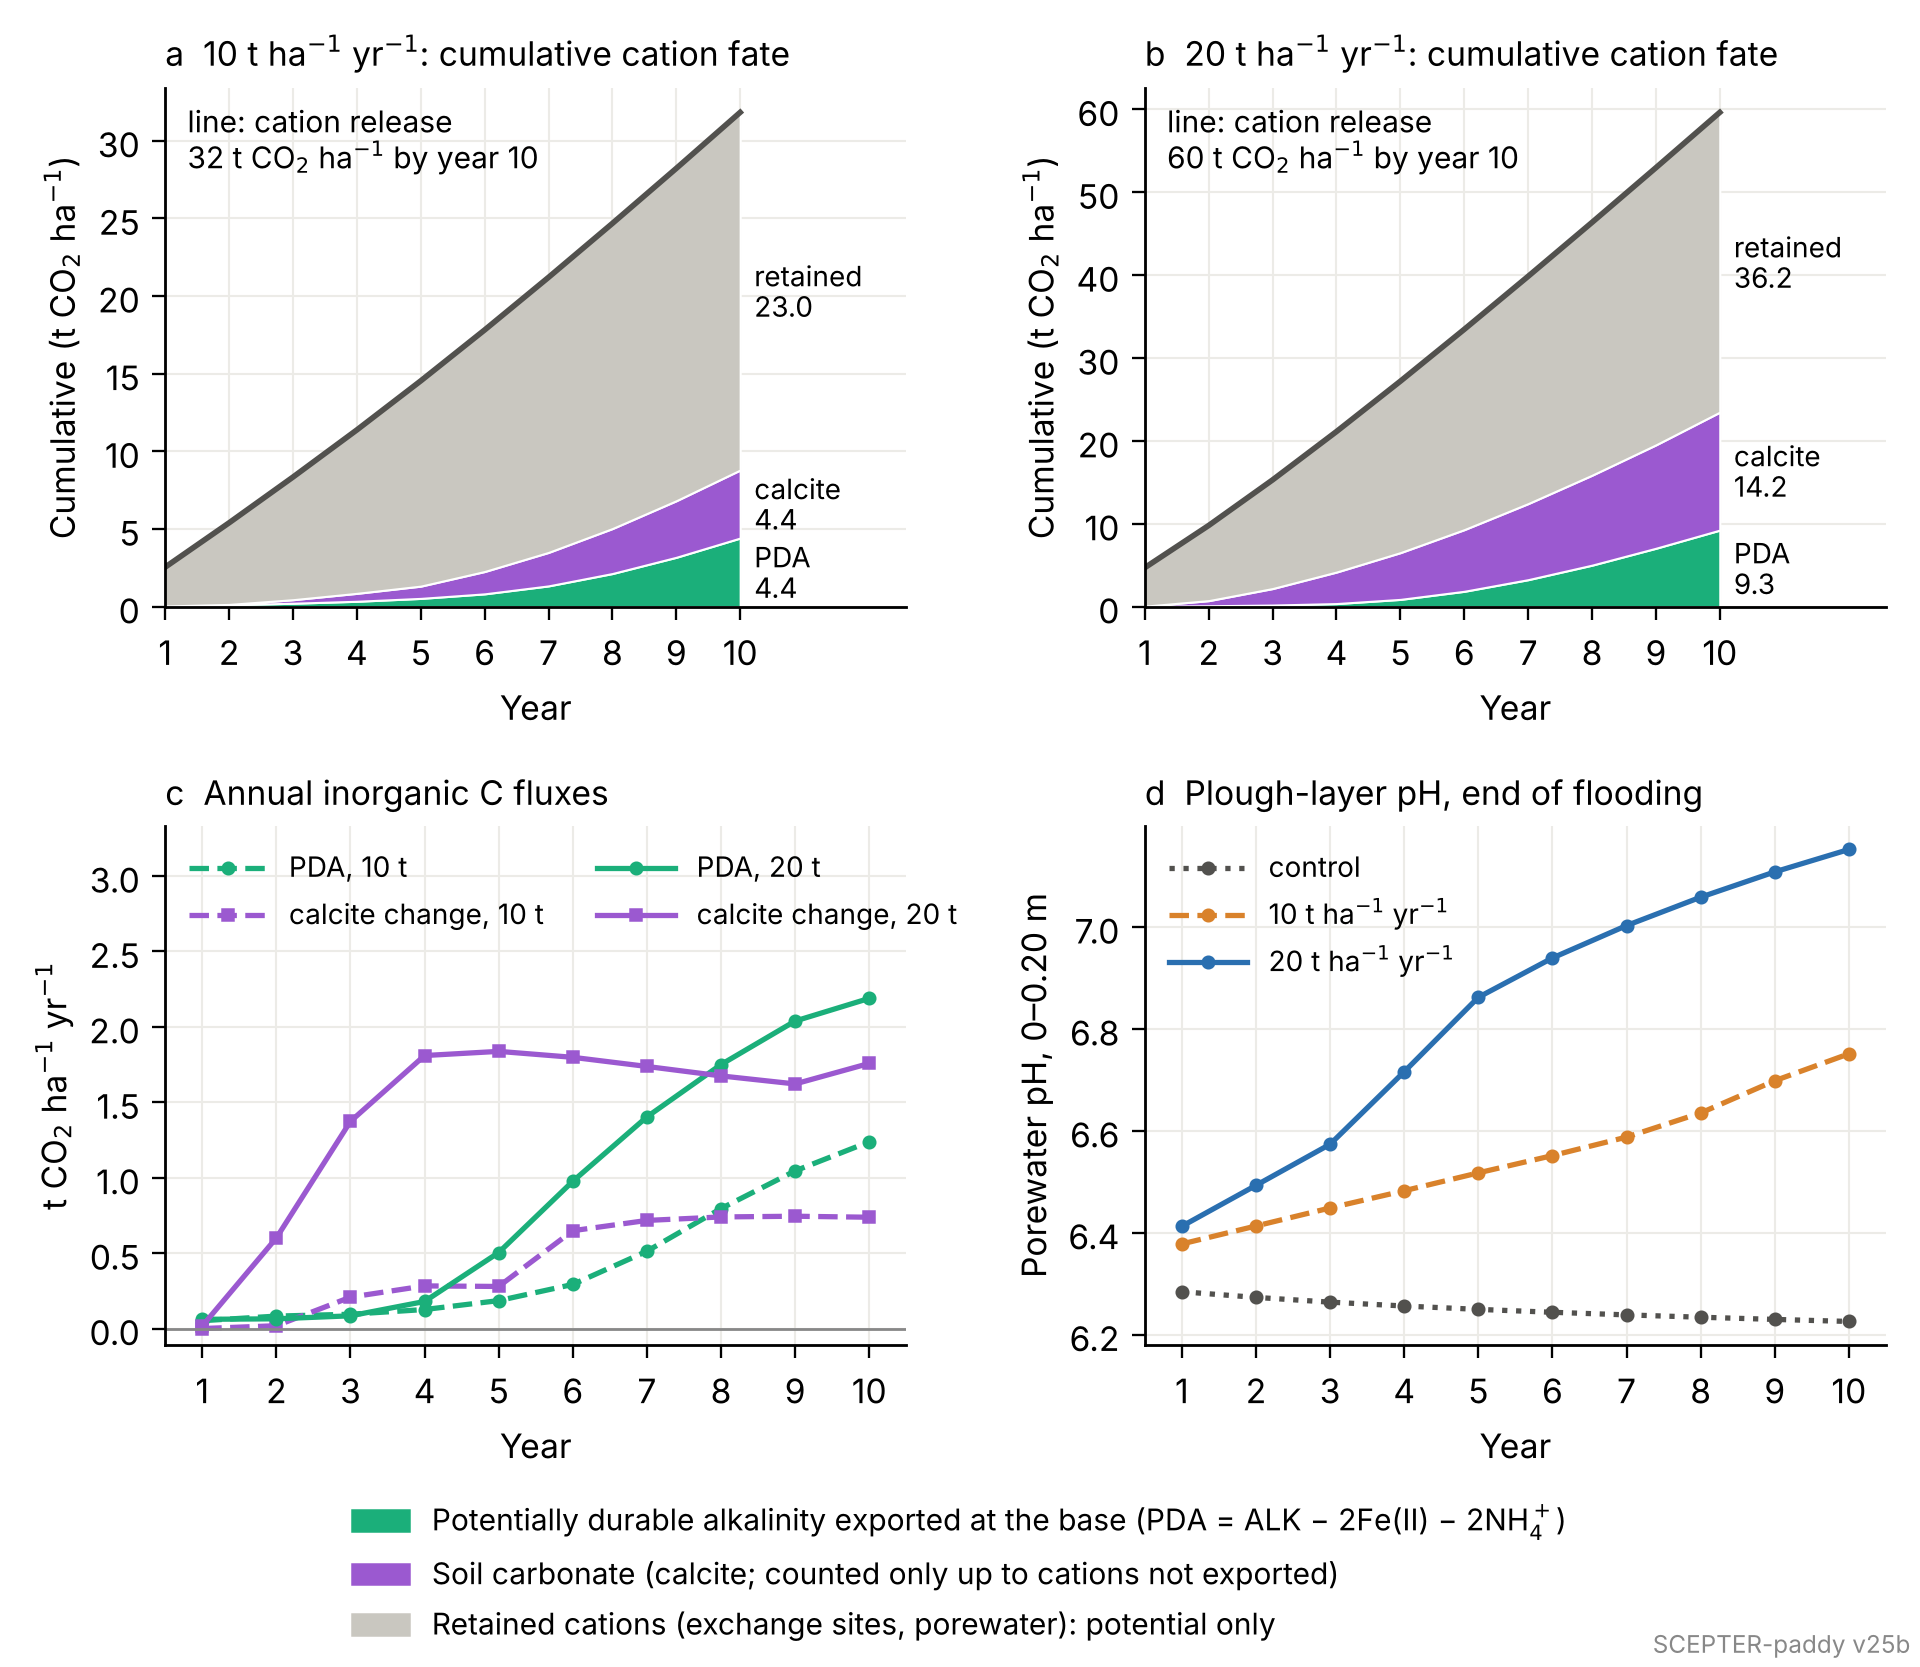
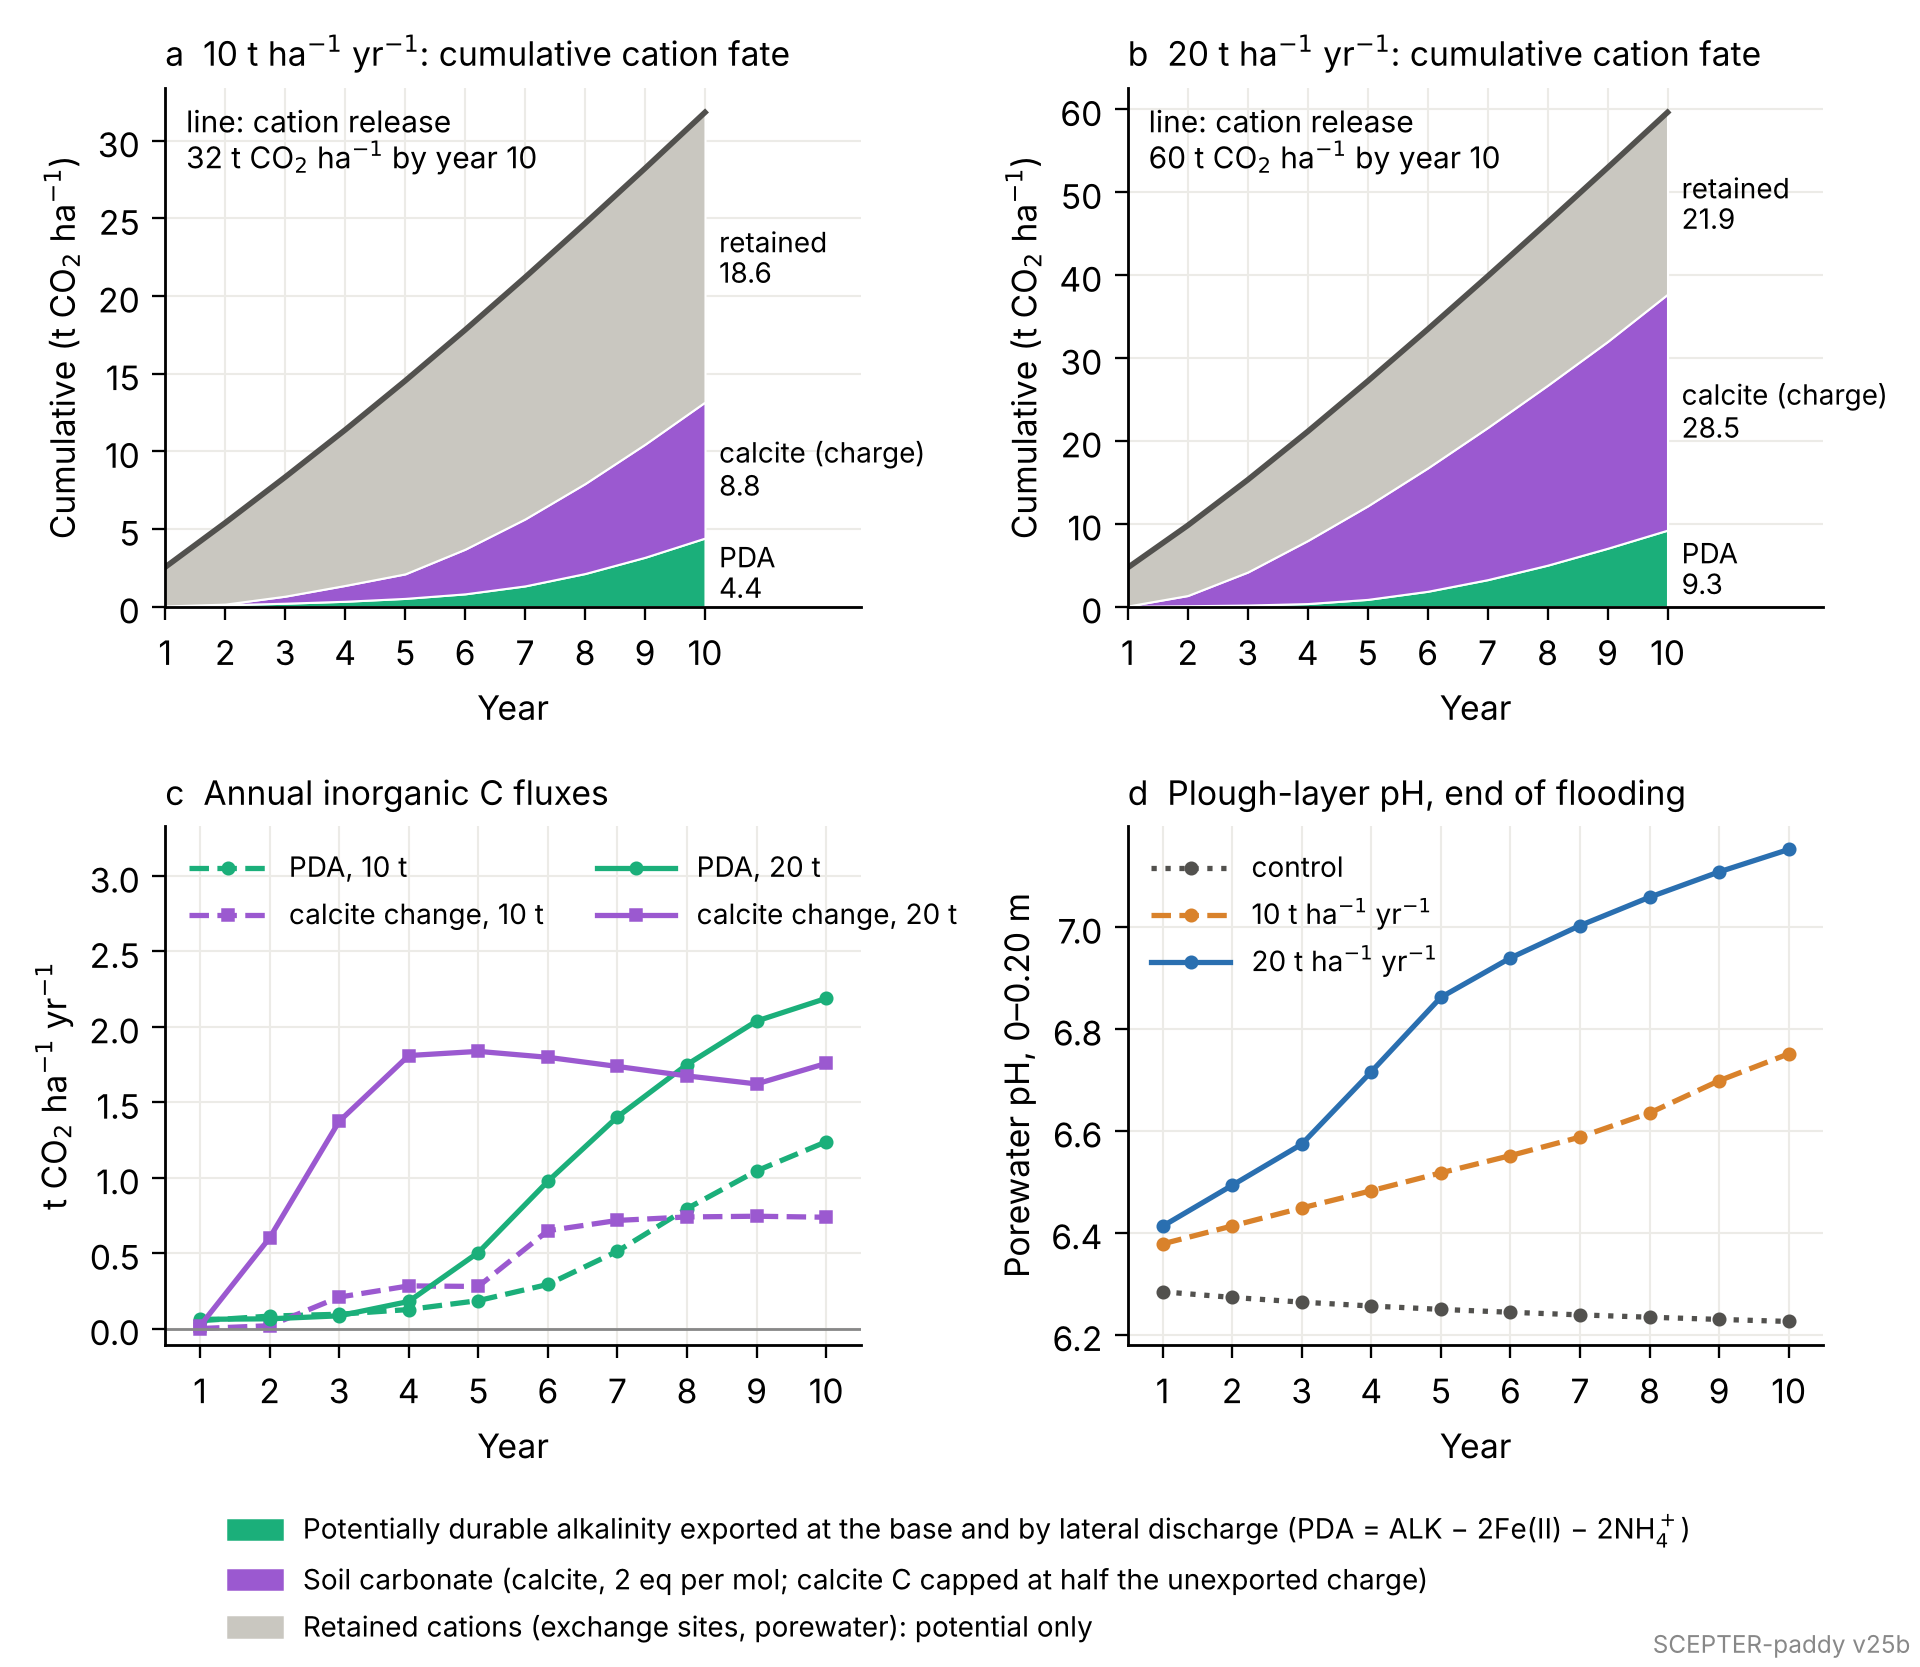
Fig 6 v25b: panels a/b on the Eq. 17 equivalent basis (calcite 2 eq/mol, C capped at half unexported charge); v25b legend wording (PDA includes lateral discharge)
Claude-Session: https://claude.ai/code/session_011eE6rAt4DAy7w44Js7Frnz

diff --git a/paddy/v25/figs/fig6_ref10_v25b.py b/paddy/v25/figs/fig6_ref10_v25b.py
@@ -12,12 +12,13 @@ fig, ax = plt.subplots(2, 2, figsize=(7.6, 6.6)); ax = ax.ravel()
 for a, dose in zip(ax[:2], (10, 20)):
     R = json.load(open(f'../results/timeline_ref{dose}.json')); y = np.array([r['y'] for r in R])
     cat = np.cumsum([r['cat'] for r in R]); pda = np.cumsum([r['pda'] for r in R])
-    cc = np.minimum(np.cumsum([r['cc'] for r in R]), np.maximum(cat - pda, 0))
-    pda = np.maximum(pda, 0); cc = np.maximum(cc, 0); ret = cat - pda - cc
+    # Eq. 17 equivalent basis: calcite C capped at half the unexported charge, drawn as charge (2 eq per mol)
+    cc = np.minimum(np.cumsum([r['cc'] for r in R]), 0.5*np.maximum(cat - pda, 0))
+    pda = np.maximum(pda, 0); cc = 2*np.maximum(cc, 0); ret = cat - pda - cc
     a.stackplot(y, pda, cc, ret, colors=[C['pda'], C['cc'], C['ret']], edgecolor='white', lw=.6)
     a.plot(y, cat, c=C['cat'], lw=1.6)
     a.text(0.03, 0.97, f"line: cation release\n{cat[-1]:.0f} t CO$_2$ ha$^{{-1}}$ by year 10", transform=a.transAxes, ha='left', va='top', fontsize=8)
-    for v, b, l in ((pda[-1], 0, 'PDA'), (cc[-1], pda[-1], 'calcite'), (ret[-1], pda[-1] + cc[-1], 'retained')):
+    for v, b, l in ((pda[-1], 0, 'PDA'), (cc[-1], pda[-1], 'calcite (charge)'), (ret[-1], pda[-1] + cc[-1], 'retained')):
         a.annotate(f'{l}\n{v:.1f}', (y[-1], b + v/2), xytext=(4, 0), textcoords='offset points', va='center', fontsize=7.5, linespacing=.9)
     a.set_xlim(1, 12.6); a.set_xticks(range(1, 11)); a.set_xlabel('Year'); a.set_ylabel('Cumulative (t CO$_2$ ha$^{-1}$)')
     a.set_title(f"{'ab'[dose//20]}  {dose} t ha$^{{-1}}$ yr$^{{-1}}$: cumulative cation fate", loc='left', fontsize=9)
@@ -36,8 +37,8 @@ for a in ax:
     a.grid(c='#ecebe7', lw=.6); a.set_axisbelow(True)
     if a is not ax[0] and a is not ax[1]: a.set_xlim(0.5, 10.5); a.set_xticks(range(1, 11))
 fig.legend([Patch(color=C[k]) for k in ('pda', 'cc', 'ret')],
-           ['Potentially durable alkalinity exported at the base (PDA = ALK − 2Fe(II) − 2NH$_4^+$)',
-            'Soil carbonate (calcite; counted only up to cations not exported)',
-            'Retained cations (exchange sites, porewater): potential only'], loc='lower center', ncol=1, frameon=False, fontsize=8)
+           ['Potentially durable alkalinity exported at the base and by lateral discharge (PDA = ALK − 2Fe(II) − 2NH$_4^+$)',
+            'Soil carbonate (calcite, 2 eq per mol; calcite C capped at half the unexported charge)',
+            'Retained cations (exchange sites, porewater): potential only'], loc='lower center', ncol=1, frameon=False, fontsize=7.5)
 fig.text(0.995, 0.005, 'SCEPTER-paddy v25b', ha='right', va='bottom', fontsize=6.5, color='#888')
 fig.tight_layout(rect=(0, 0.1, 1, 1), h_pad=1.4, w_pad=1.2); fig.savefig('fig6_ref10_v25b.png')
